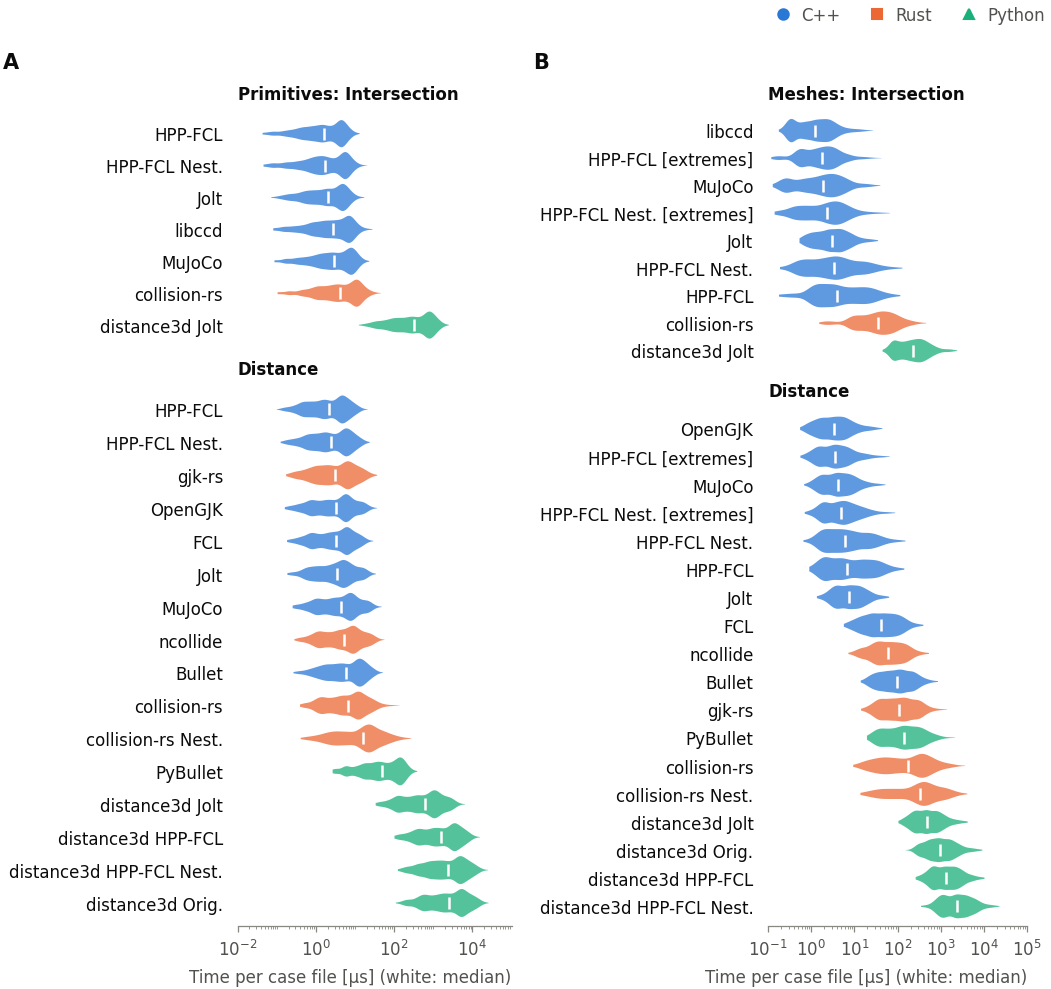
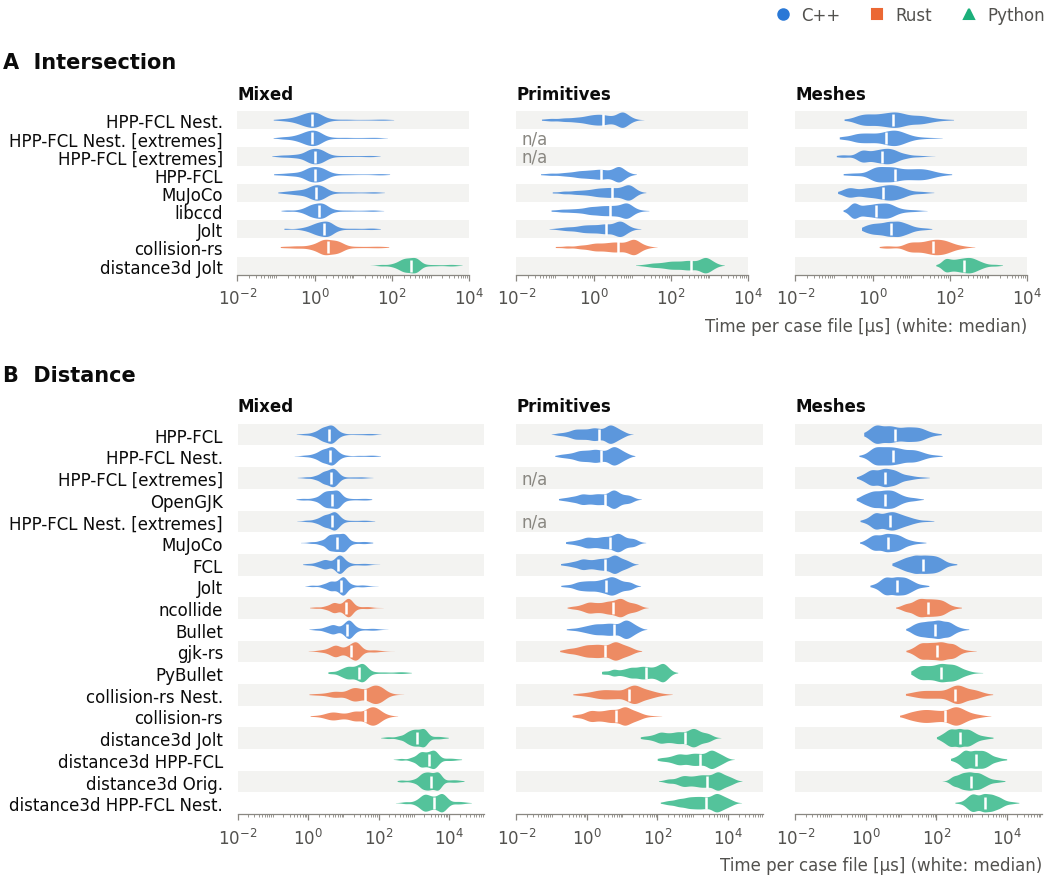
Common violin plot

diff --git a/compare-python/analyze/run_analysis.py b/compare-python/analyze/run_analysis.py
@@ -13,13 +13,13 @@ Output files:
 - data_quality_first_run.csv/.pdf: first-run effect (only with --results-dir)
 - summary.csv, summary_<benchmark>_<computer>.tex: median, quartiles, upper percentiles and maximum
 - violin_<benchmark>_<computer>.pdf: runtime distributions
-- violin_<computer>.pdf: runtime distributions of the primitive (A) and the mesh benchmarks (B),
-  violin_mixed_<computer>.pdf: of the mixed benchmarks, see FIGURES and PAPER_VIOLIN_BENCHMARKS
+- violin_<computer>.pdf: runtime distributions (panels: intersection and distance, one column per geometry, see
+  FIGURE_COLUMNS and PAPER_VIOLIN_BENCHMARKS)
 - comparisons_within_language_<geometry>_<computer>.csv/.tex, comparisons_best_per_language_<geometry>_<computer>.csv/.tex,
   comparisons_variants_<geometry>_<computer>.csv/.tex (linear support), comparisons_nesterov_<geometry>_<computer>.csv/.tex
 - speedup_vs_fastest_<geometry>_<computer>.csv/.tex, speedup_vs_fastest_<computer>.pdf: slowdown of every
   implementation relative to the fastest one (table with confidence intervals; figure panels: intersection and
-  distance, one column per geometry, see SLOWDOWN_COLUMNS)
+  distance, one column per geometry, see FIGURE_COLUMNS)
 - linear_support_<geometry>_<computer>.csv, linear_support_<computer>.pdf, linear_support_mixed_<computer>.pdf:
   slowdown of the linear support function relative to the logarithmic one
 - effect_sizes_<geometry>_<computer>.pdf: heatmaps of the probability of improvement within each language
@@ -37,11 +37,11 @@ import figures
 from load_results import load_results, tasks, comparison_groups, to_long
 
 GEOMETRY_TITLES = {"primitives": "Primitives", "mixed": "Mixed", "meshes": "Meshes"}
-# Figures with one panel per geometry: {file name suffix: geometries}. The panels of a full-width figure are too narrow
-# for three geometries, so the mixed geometry has its own figures.
+# Linear support figures with one panel per geometry: {file name suffix: geometries}. The panels of a full-width figure
+# are too narrow for three geometries, so the mixed geometry has its own figure.
 FIGURES = {"": ["primitives", "meshes"], "_mixed": ["mixed"]}
-# columns of the slowdown figure (rows are ordered by the first geometry, mixed contains all implementations)
-SLOWDOWN_COLUMNS = ["mixed", "primitives", "meshes"]
+# columns of the violin and slowdown figures (rows are ordered by the first geometry, which has all implementations)
+FIGURE_COLUMNS = ["mixed", "primitives", "meshes"]
 # benchmarks in the violin plots of the paper: primitives (UC1, 2, 5, 6), mixed (TIAGo) and meshes (dual arm)
 PAPER_VIOLIN_BENCHMARKS = {
     "primitives": ["uc1_ur10_collision", "uc2_ur10_collision", "uc5_ur10_collision", "uc6_ur10_collision"],
@@ -90,15 +90,13 @@ def main():
                                                  f"tab:summary-{benchmark.replace('_', '-')}-{computer}"))
 
     for computer in sorted(df["computer"].unique()):
-        for figure, geometries in FIGURES.items():
-            # panels with the benchmarks that exist on this computer
-            panels = [(GEOMETRY_TITLES[geometry],
-                       [b for b in PAPER_VIOLIN_BENCHMARKS[geometry] if (b, computer) in tasks(df)])
-                      for geometry in geometries]
-            panels = [(title, benchmarks) for title, benchmarks in panels if benchmarks]
-            if panels:
-                figures.violin_plot(long, [(benchmarks, computer) for _, benchmarks in panels],
-                                    out(f"violin{figure}_{computer}.pdf"), titles=[title for title, _ in panels])
+        # one column per geometry with the benchmarks that exist on this computer
+        columns = [(GEOMETRY_TITLES[geometry],
+                    [b for b in PAPER_VIOLIN_BENCHMARKS[geometry] if (b, computer) in tasks(df)], computer)
+                   for geometry in FIGURE_COLUMNS]
+        columns = [column for column in columns if column[1]]
+        if columns:
+            figures.violin_by_query_plot(long, columns, out(f"violin_{computer}.pdf"))
 
     # 6. pairwise comparisons, separately per geometry (primitives, mixed or meshes) and computer
     options = {"n_resamples": args.resamples, "random_state": args.seed}
@@ -147,7 +145,7 @@ def main():
     for computer, computer_panels in panels.items():
         # slowdown figure: one panel per query type, one column per geometry
         slowdown = {geometry: s for geometry, s, _ in computer_panels}
-        figures.slowdown_by_query_chart([(GEOMETRY_TITLES[g], slowdown[g]) for g in SLOWDOWN_COLUMNS if g in slowdown],
+        figures.slowdown_by_query_chart([(GEOMETRY_TITLES[g], slowdown[g]) for g in FIGURE_COLUMNS if g in slowdown],
                                         out(f"speedup_vs_fastest_{computer}.pdf"), "Slowdown")
         # linear support figures with one panel per geometry (see FIGURES)
         for figure, geometries in FIGURES.items():

diff --git a/compare-python/analyze/figures.py b/compare-python/analyze/figures.py
@@ -369,6 +369,63 @@ def violin_plot(long, tasks, path, titles=None):
         _save(fig, path)
 
 
+def violin_by_query_plot(long, columns, path):
+    """Runtime distributions (log scale) with one panel per category (A: intersection, B: distance) and one column per
+    geometry, as in slowdown_by_query_chart(). The columns share the implementation axis, ordered by the median in the
+    first column, and the time axis of their panel.
+
+    columns : list of (title, benchmarks, computer), one column per entry; the case files of all benchmarks of a
+        column are shown together
+    """
+    data = [_task_medians(long, benchmarks, computer) for _, benchmarks, computer in columns]
+    panels = []
+    for category in CATEGORIES:
+        medians = [m[m["category"] == category] for _, m in data]
+        order = medians[0].sort_values("time_us")["label"].tolist()
+        order += sorted(set().union(*(set(m["label"]) for m in medians)) - set(order))
+        times = np.log10(np.concatenate([t.loc[t["category"] == category, "time_us"].to_numpy() for t, _ in data]))
+        panels.append((category, order, np.floor(times.min()), np.ceil(times.max())))
+    row_height = 0.165
+    heights = [len(order) * row_height + 0.45 for _, order, _, _ in panels]
+    with plt.rc_context(STYLE):
+        fig = plt.figure(figsize=(FULL_WIDTH, sum(heights) + 0.5), layout="constrained")
+        subfigs = fig.subfigures(len(panels), 1, height_ratios=heights, hspace=0.04)
+        for letter, subfig, (category, order, low, high) in zip("ABCDEFGH", subfigs, panels):
+            subfig.suptitle(f"{letter}  {category}", x=0.0, ha="left", fontsize=PANEL_LABEL_SIZE, fontweight="bold",
+                            color=TEXT)
+            axes = subfig.subplots(1, len(columns), sharey=True, squeeze=False)[0]
+            y = {label: i for i, label in enumerate(order)}
+            for k, (ax, (title, _, _), (task, medians)) in enumerate(zip(axes, columns, data)):
+                for i in range(0, len(order), 2):
+                    ax.axhspan(i - 0.5, i + 0.5, color=GRID, alpha=0.45, linewidth=0, zorder=-1)
+                rows = medians[medians["category"] == category]
+                positions = [y[label] for label in rows["label"]]
+                times = [np.log10(task.loc[task["algorithm"] == a, "time_us"].to_numpy()) for a in rows["algorithm"]]
+                parts = ax.violinplot(times, positions=positions, vert=False, widths=0.85, showextrema=False)
+                for body, language in zip(parts["bodies"], rows["language"]):
+                    body.set_facecolor(LANGUAGE_COLORS[language])
+                    body.set_edgecolor("none")
+                    body.set_alpha(0.75)
+                ax.plot(np.log10(rows["time_us"]), positions, linestyle="", marker="|", markersize=6,
+                        markeredgewidth=1.2, color="white")
+                for label in sorted(set(order) - set(rows["label"])):  # not benchmarked with this geometry
+                    ax.annotate("n/a", (0.02, y[label]), xycoords=("axes fraction", "data"), va="center", color=AXIS)
+                ax.set_title(title, loc="left")
+                # every second decade: the columns are too narrow for a label at every decade
+                ticks = [t for t in _decade_ticks(low, high) if t % 2 == 0]
+                ax.xaxis.set_major_locator(FixedLocator(ticks))
+                ax.xaxis.set_minor_locator(
+                    FixedLocator(np.log10(np.outer(10.0 ** np.arange(low, high), np.arange(1, 10)).ravel())))
+                ax.set_xticklabels([_tick_label(t) for t in ticks])
+                ax.set_xlim(low, high)
+                if k == len(columns) - 1:
+                    ax.set_xlabel("Time per case file [µs] (white: median)", loc="right")
+                ax.set_ylim(len(order) - 0.5, -0.5)
+            axes[0].set_yticks(range(len(order)), order)
+        _language_legend(fig, set().union(*(set(m["language"]) for _, m in data)))
+        _save(fig, path)
+
+
 def _format_probability(value):
     """Probability in percent without decimals (fits into a heatmap cell at 8 pt); 100 and 0 only for exact values."""
     text = f"{100.0 * value:.0f}"

diff --git a/README.md b/README.md
@@ -96,8 +96,9 @@ the support function study), HPP-FCL is also shown with cached extremes in the d
 
 <img src="./doc/results/case_statistics.png" width="800" />
 
-**Runtime distributions** per GJK implementation (time per case file, log scale): (A) primitives (use cases 1, 2,
-5, and 6 with UR10 collision environment), (B) meshes (dual-arm scene).
+**Runtime distributions** per GJK implementation (time per case file, log scale): (A) intersection, (B) distance,
+with the columns mixed (TIAGo self-collision), primitives (use cases 1, 2, 5, and 6 with UR10 collision environment),
+and meshes (dual-arm scene). The rows are ordered by the median in the mixed benchmark.
 
 <img src="./doc/results/violin_PC1.png" width="800" />
 
